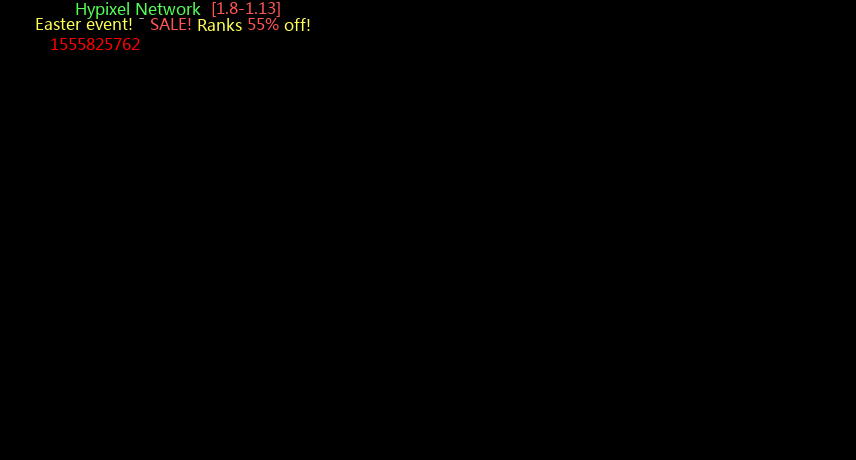
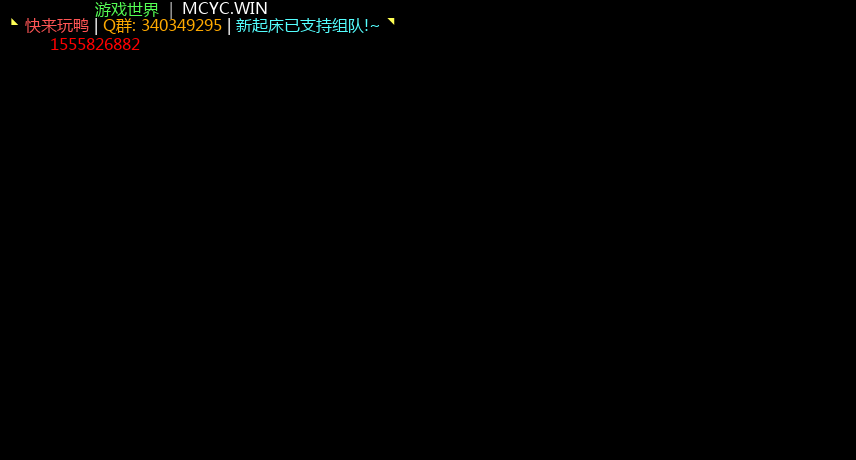
自动载入

Changed region(s): [[0.0304, 0.0, 0.4556, 0.1217]]

diff --git a/app/GD/Draw.php b/app/GD/Draw.php
@@ -5,38 +5,7 @@ class Draw
 {
     private $main;
     public $replace=[];
-    public $draw=[
-        'width'=>'100',
-        'height'=>'100',
-        'background'=>'white.jpg',
-        'plugin'=>[
-            [
-                'plugin'=>'Mcstatus',
-                'name'=>'T',
-                'input'=>[
-                    'host'=>'mc.hypixel.net',
-                    'port'=>25565
-                ]
-            ],[
-                'plugin'=>'Time',
-                'name'=>'Time',
-                'input'=>[
-                    'type'=>'h:i:sa'
-                ]
-            ]
-        ],
-        'draw'=>[
-            [
-                'text'=>'<?T->motd?>'."\n".'<?Time->time?>',
-                'size'=>12,
-                'x'=>0,
-                'y'=>0,
-                'color'=>'#000000',
-                'font'=>'msyh.ttf',
-                'angle'=>0
-            ]
-        ]
-    ];
+    public $draw=[];
     public function main($str){
         $data=json_decode($str);
         $this->draw=$this->read($data);
